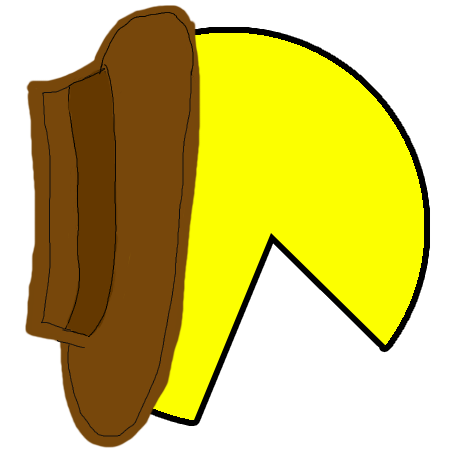
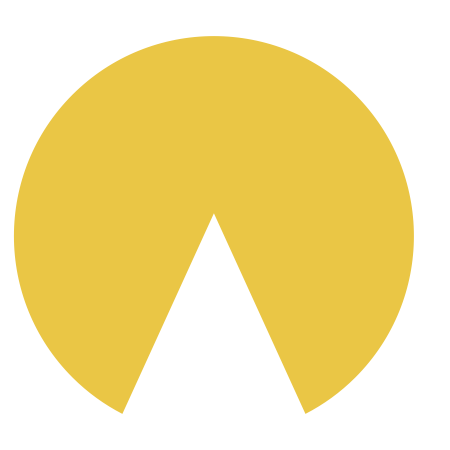
adjusted timer and changed pacman + candies

diff --git a/JavaPacman/src/group23/pacman/model/Pacman.java b/JavaPacman/src/group23/pacman/model/Pacman.java
@@ -314,13 +314,13 @@ public class Pacman extends GameObject implements MovingCharacter {
 	/* Set up the frame animation for the main character */
 	private void setUpAnimations() {
 
-		Image leftC = new Image("assets/Pacman/leftClosed.png",SPRITE_WIDTH,SPRITE_HEIGHT,false,false);
+		Image leftC = new Image("assets/Pacman/leftClose.png",SPRITE_WIDTH,SPRITE_HEIGHT,false,false);
 		Image leftO = new Image("assets/Pacman/leftOpen.png",SPRITE_WIDTH,SPRITE_HEIGHT,false,false);
-		Image rightC = new Image("assets/Pacman/rightClosed.png",SPRITE_WIDTH,SPRITE_HEIGHT,false,false);
+		Image rightC = new Image("assets/Pacman/rightClose.png",SPRITE_WIDTH,SPRITE_HEIGHT,false,false);
 		Image rightO = new Image("assets/Pacman/rightOpen.png",SPRITE_WIDTH,SPRITE_HEIGHT,false,false);
-		Image upC = new Image("assets/Pacman/upClosed.png",SPRITE_WIDTH,SPRITE_HEIGHT,false,false);
+		Image upC = new Image("assets/Pacman/upClose.png",SPRITE_WIDTH,SPRITE_HEIGHT,false,false);
 		Image upO = new Image("assets/Pacman/upOpen.png",SPRITE_WIDTH,SPRITE_HEIGHT,false,false);
-		Image downC = new Image("assets/Pacman/downClosed.png",SPRITE_WIDTH,SPRITE_HEIGHT,false,false);
+		Image downC = new Image("assets/Pacman/downClose.png",SPRITE_WIDTH,SPRITE_HEIGHT,false,false);
 		Image downO = new Image("assets/Pacman/downOpen.png",SPRITE_WIDTH,SPRITE_HEIGHT,false,false);
 		
 		Image blink = new Image("assets/misc/empty.png",SPRITE_WIDTH,SPRITE_HEIGHT,false,false);

diff --git a/JavaPacman/src/group23/pacman/controller/GameViewController.java b/JavaPacman/src/group23/pacman/controller/GameViewController.java
@@ -522,11 +522,23 @@ public class GameViewController extends RootController implements JoystickManage
     public void setTimerLabel() {
 
         String time = String.valueOf(timer.getTimeRemaining());
-        char mins = time.charAt(0);
-        char tensSecs = time.charAt(1);
-        char onesSecs = time.charAt(2);
-        time = "0" + mins + ":" + tensSecs + onesSecs;
-        timerLabel.setText(time);
+        System.out.println(time);
+        int mins;
+        int tensSecs;
+        String newTime;
+
+        mins = timer.getTimeRemaining() / 60;
+        newTime = "0" + String.valueOf(mins) + ":";
+
+        tensSecs = timer.getTimeRemaining() - mins*60;
+
+        if (tensSecs < 10) {
+            newTime += "0" + String.valueOf(tensSecs);
+        } else {
+            newTime += String.valueOf(tensSecs);
+        }
+
+        timerLabel.setText(newTime);
 
     }
 

diff --git a/JavaPacman/src/group23/pacman/model/QuestionPellet.java b/JavaPacman/src/group23/pacman/model/QuestionPellet.java
@@ -33,7 +33,7 @@ public class QuestionPellet extends RandomPellet {
     @Override
     public void setImage() {
 
-        image = new Image("assets/tempQuestionPellet.png",SPRITE_WIDTH,SPRITE_HEIGHT,false,false);
+        image = new Image("assets/pellet_question.png",SPRITE_WIDTH,SPRITE_HEIGHT,false,false);
         this.type = TYPE.QUESTION_PELLET;
     }
 

diff --git a/JavaPacman/src/group23/pacman/model/SilverPellet.java b/JavaPacman/src/group23/pacman/model/SilverPellet.java
@@ -16,7 +16,7 @@ public class SilverPellet extends Pellet{
 	@Override
 	public void setImage() {
 		
-		image = new Image("assets/tempSpecialPellet.png",SPRITE_WIDTH,SPRITE_HEIGHT,false,false);
+		image = new Image("assets/pellet_powerup.png",SPRITE_WIDTH,SPRITE_HEIGHT,false,false);
 		this.type = GameObject.TYPE.SILVER_PELLET;
 	}
 

diff --git a/JavaPacman/src/group23/pacman/model/PoisonPellet.java b/JavaPacman/src/group23/pacman/model/PoisonPellet.java
@@ -25,7 +25,7 @@ public class PoisonPellet extends RandomPellet {
 
     @Override
     public void setImage() {
-        image = new Image("assets/tempPoisonPellet.png", SPRITE_WIDTH, SPRITE_HEIGHT, false, false);
+        image = new Image("assets/pellet_poison.png", 15, SPRITE_WIDTH, false, false);
     }
 }
 

diff --git a/JavaPacman/src/group23/pacman/model/Pellet.java b/JavaPacman/src/group23/pacman/model/Pellet.java
@@ -30,7 +30,7 @@ public class Pellet extends GameObject {
 	
 	public void setImage() {
 		
-		image = new Image("assets/tempPellet.png",SPRITE_WIDTH,SPRITE_HEIGHT,false,false);
+		image = new Image("assets/pellet_normal.png",SPRITE_WIDTH,SPRITE_HEIGHT,false,false);
 		this.type = GameObject.TYPE.PELLET;
 	}
 	
